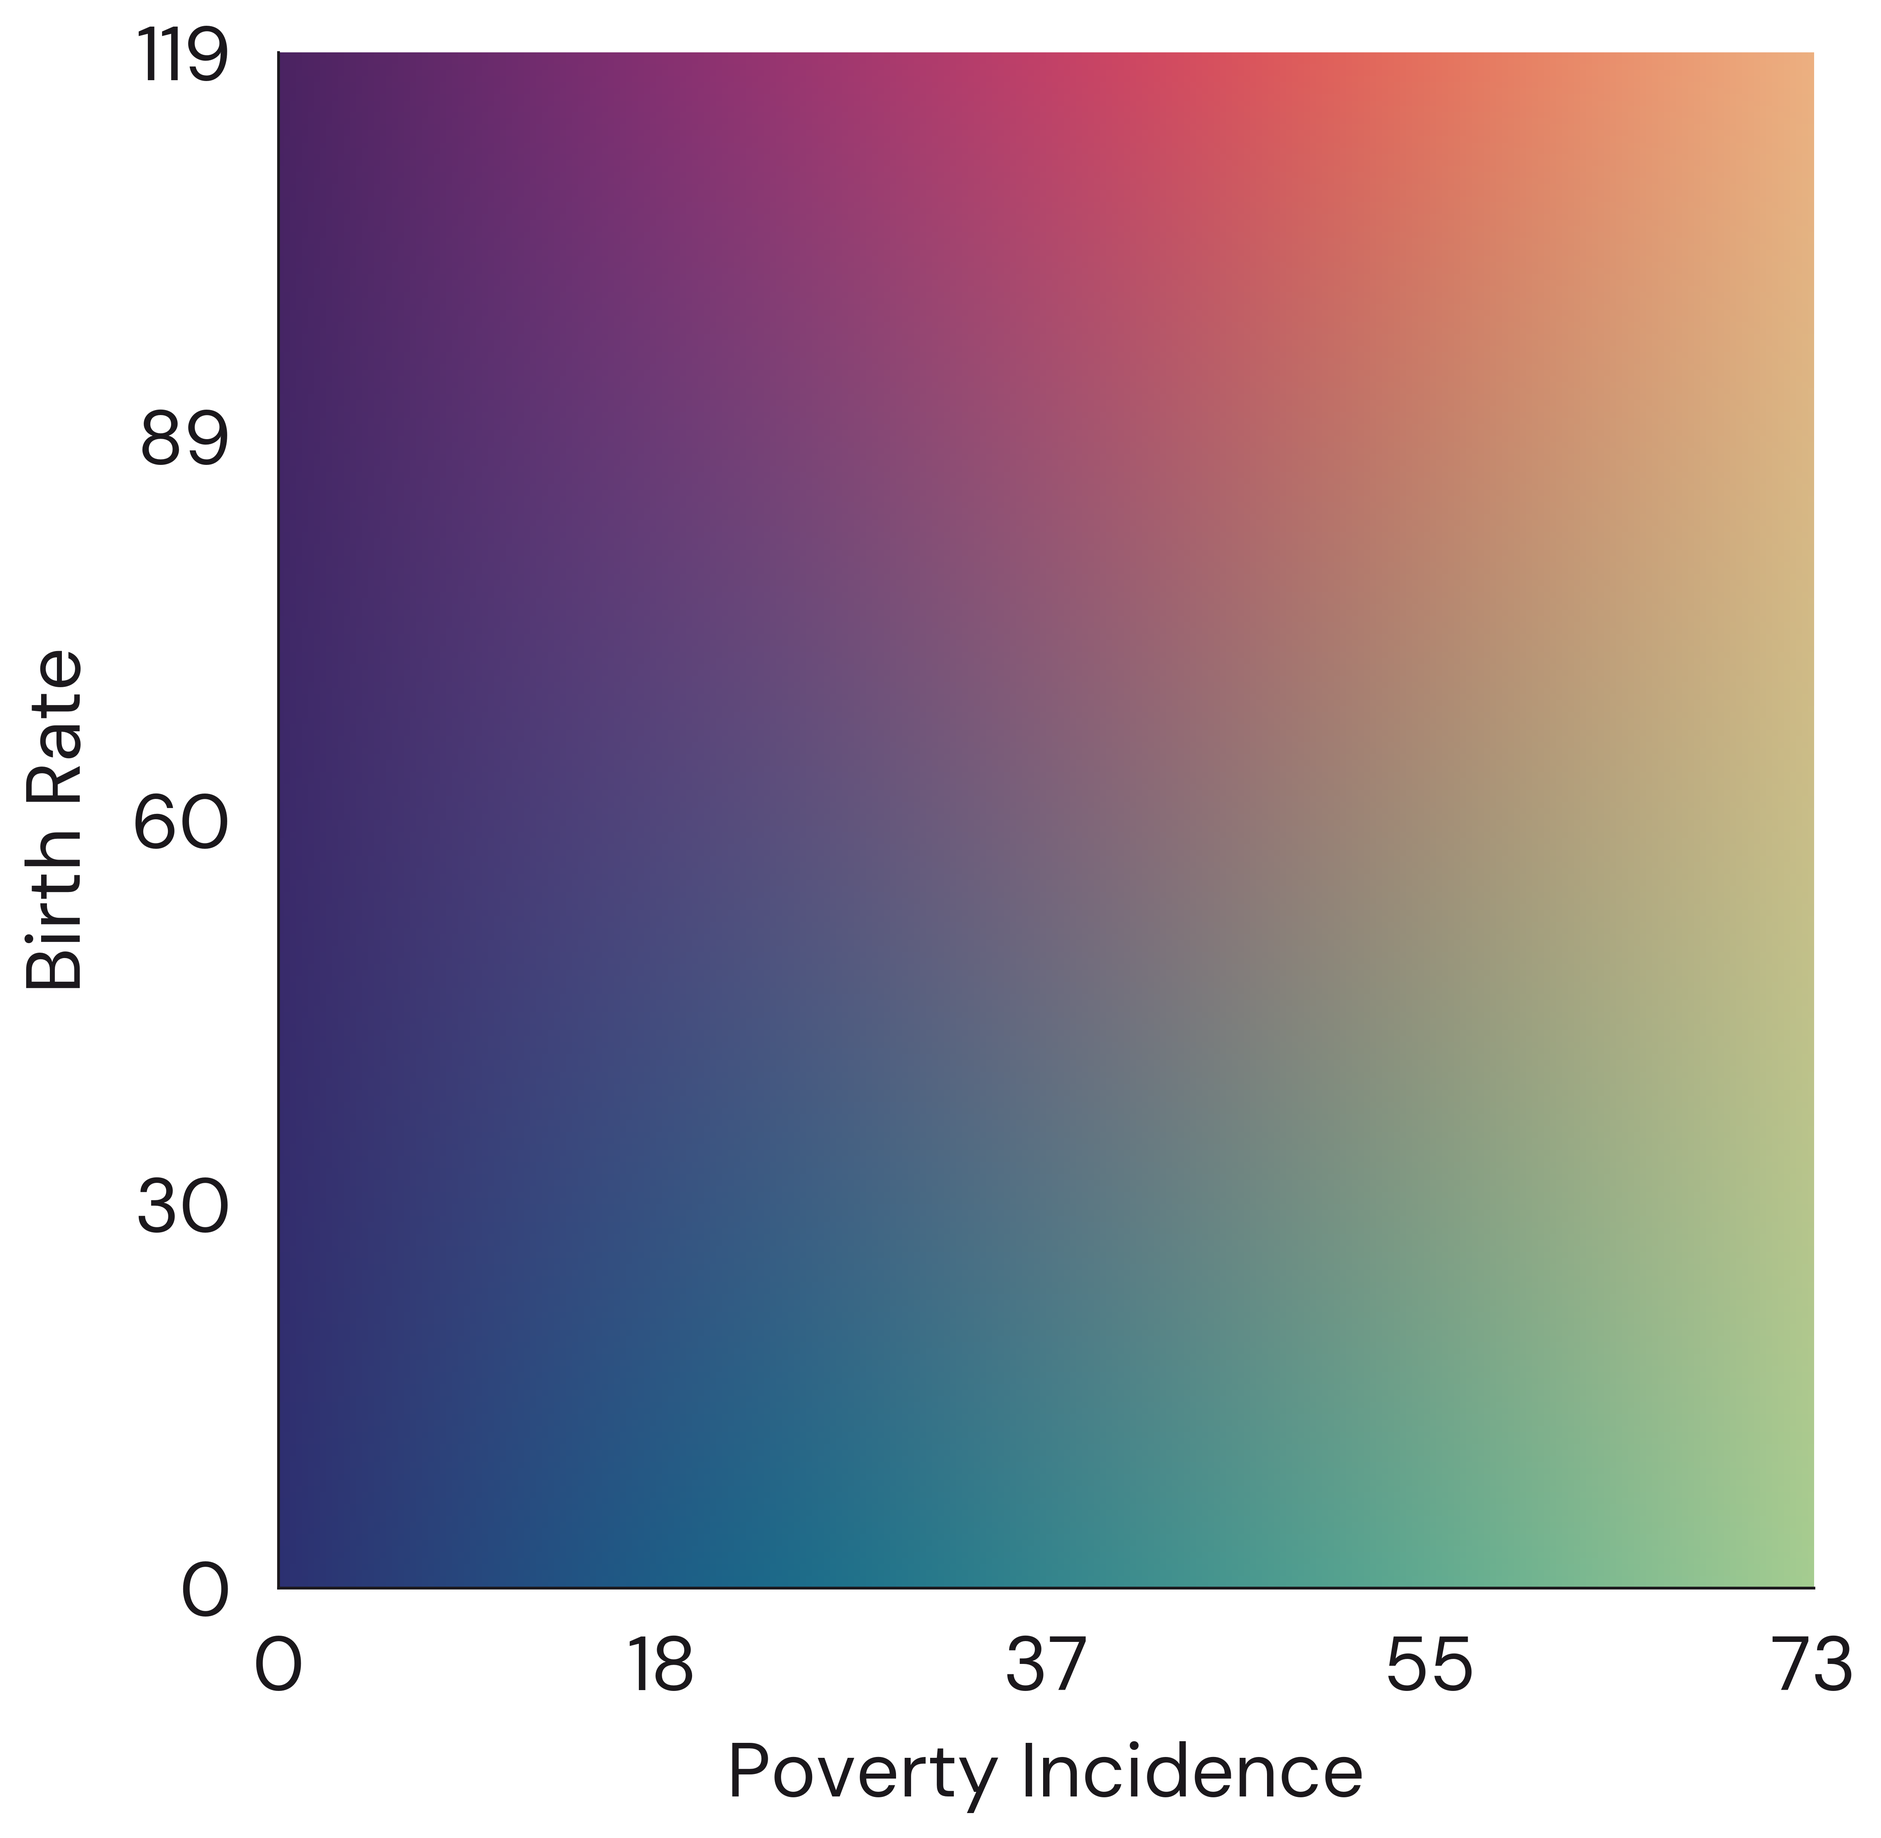
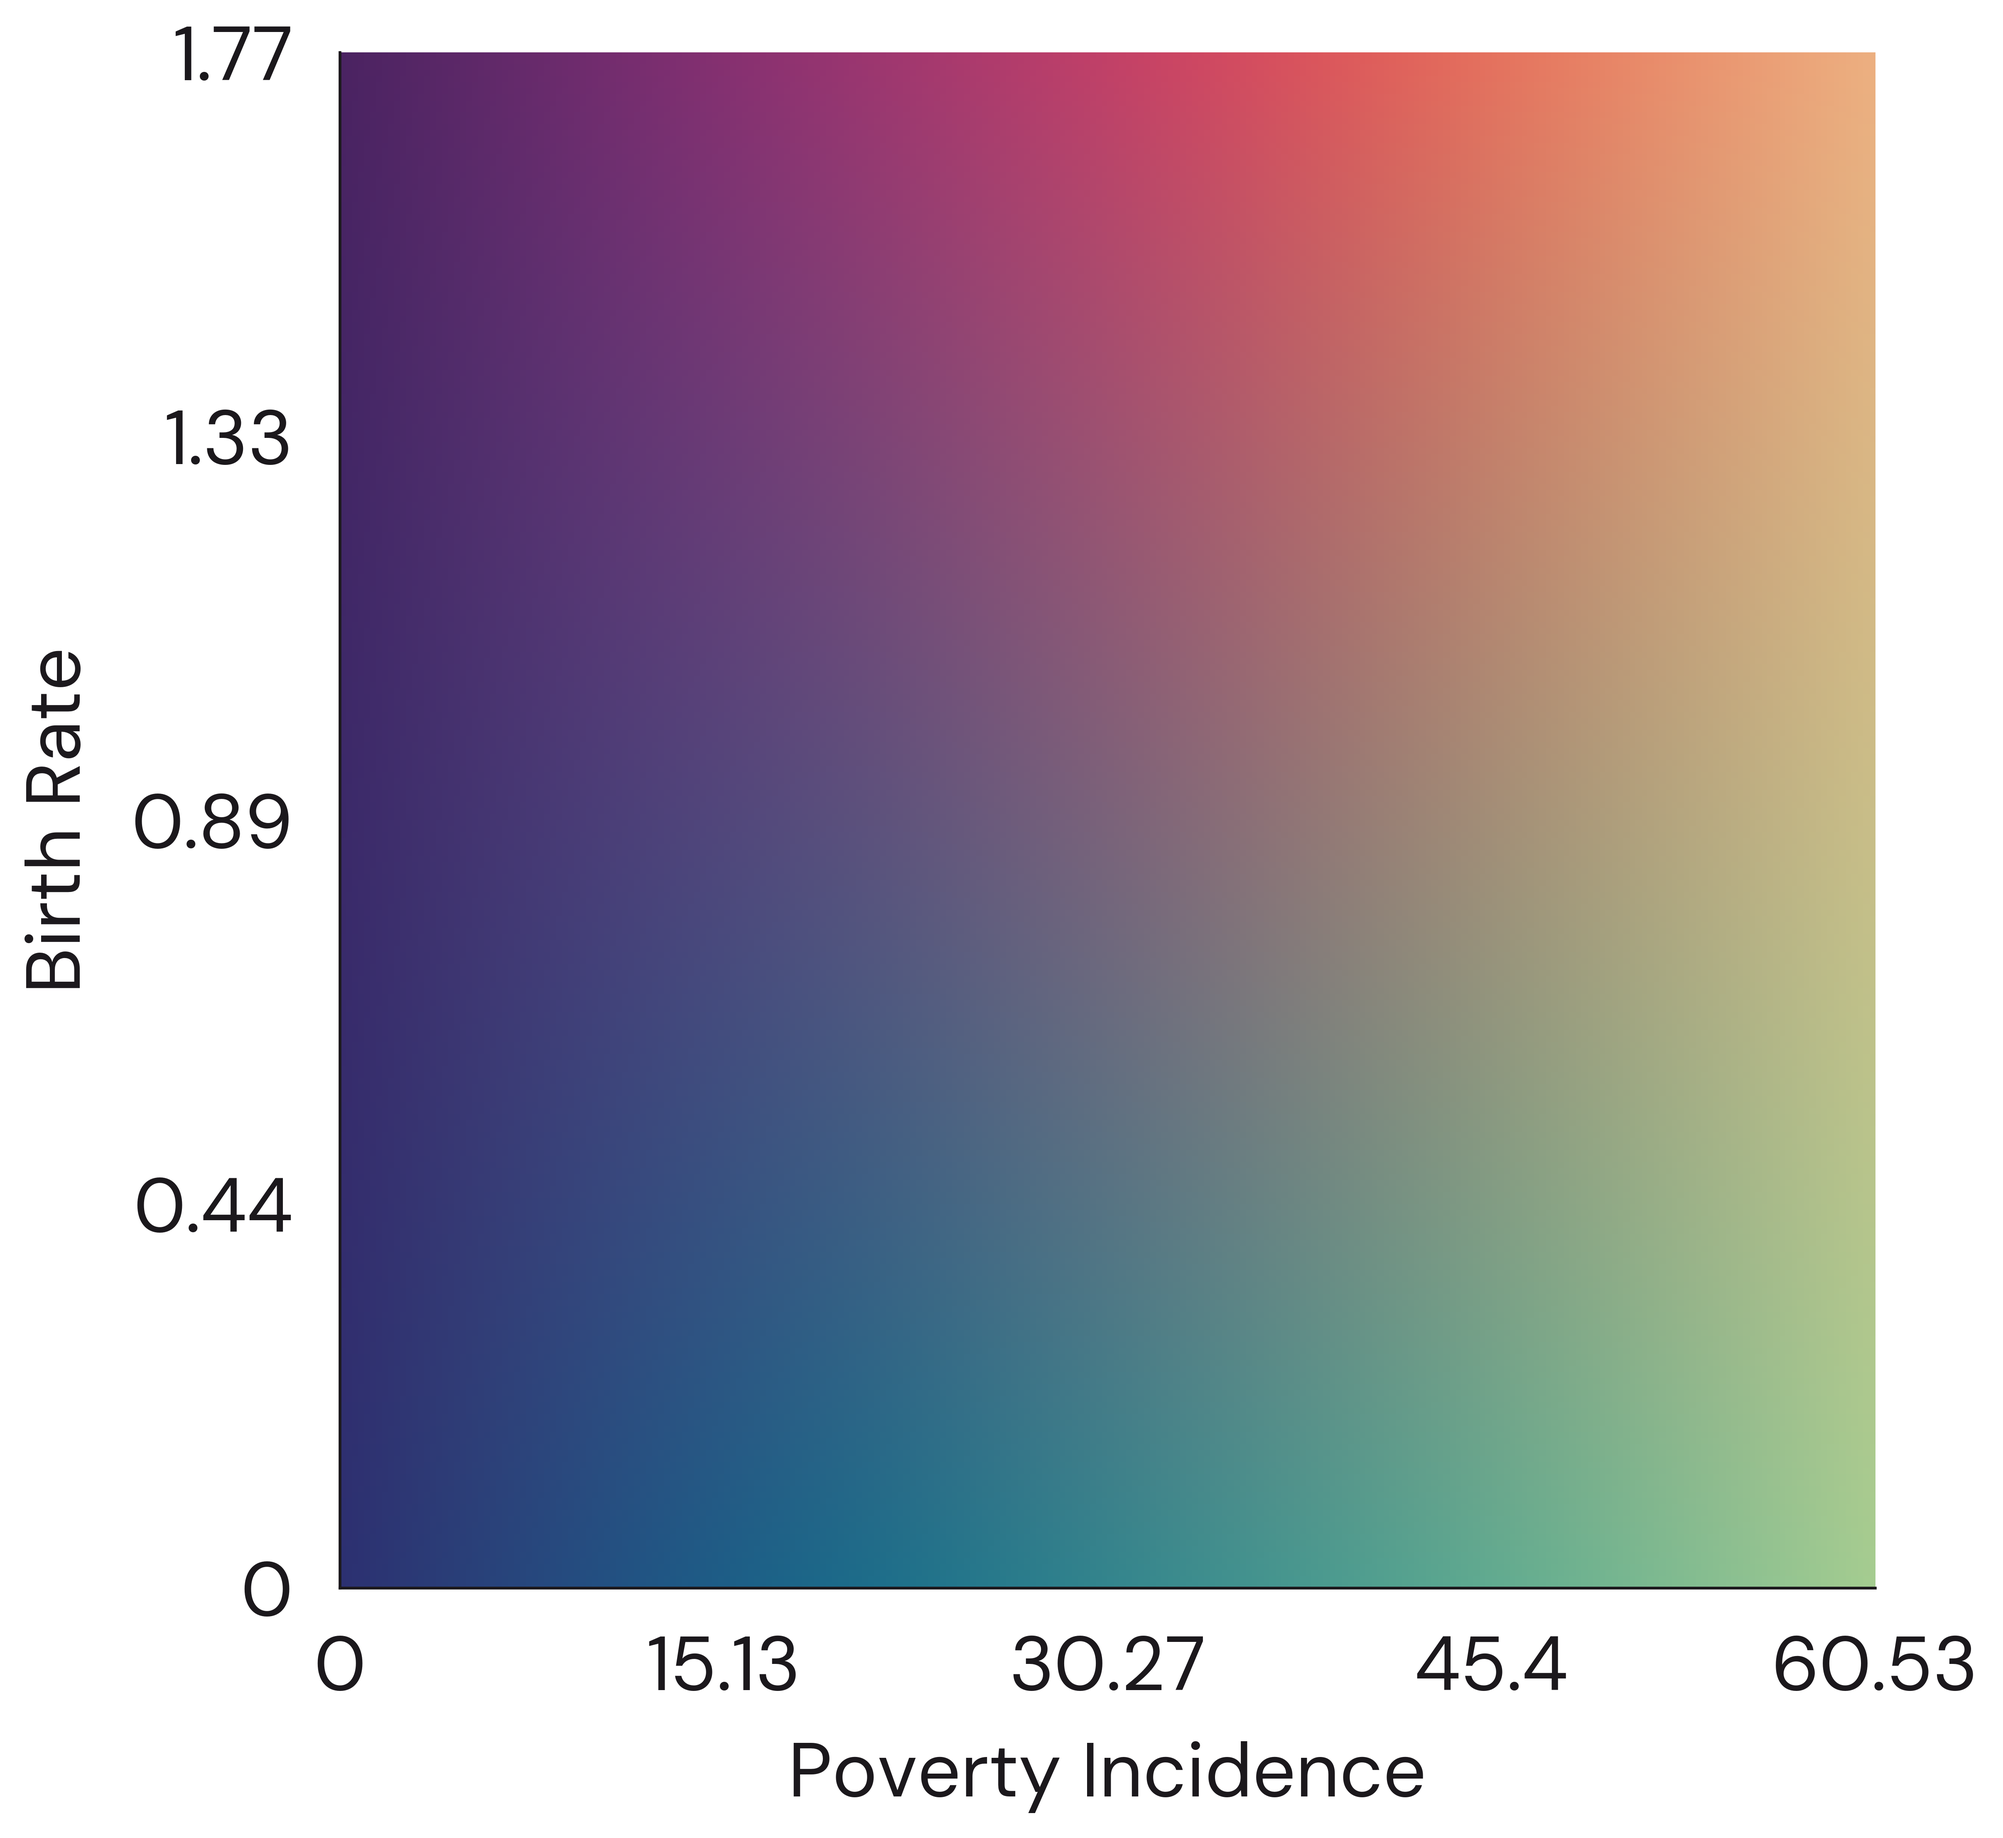
Add nutshell plot description

diff --git a/app/Exploration.tsx b/app/Exploration.tsx
@@ -3,6 +3,7 @@ import SectionTitle from "@/components/ui/SectionTitle";
 import Button from "@/components/ui/Button";
 import ExplorationHeader from "@/components/ui/ExplorationHeader";
 import ExplorationItem from "@/components/ui/ExplorationItem";
+import Image from "next/image";
 
 export default async function Exploration() {
   return (
@@ -37,7 +38,51 @@ export default async function Exploration() {
       <ExplorationItem
         title="Cleaning Population Dataset"
         description="Much like the live births dataset, string representations of number values (due to commas) were converted. With this, the dataset is now ready for merging."
+      /> 
+      <div className="flex flex-row justify-between gap-10 items-between flex-wrap">
+      <p className="text-2xl font-urbanist leading-tight">
+          And there we go, our data has been cleaned!
+      </p>
+      <Button
+          className="whitespace-nowrap"
+          name="Take a look at our dataset! [WIP]"
+          link="https://colab.research.google.com/drive/1yBrVKPBKlfGQR4bbGP-N8Q9ZNd9hW0yD?usp=sharing"
       />
+      <ExplorationHeader
+        title="Nutshell Plot" 
+        description="From here, we try to extrapolate patterns within our data; we then visualize our results to try and see if they correspond with any of our hypotheses."
+      />
+      <ExplorationItem 
+        title="Geospatial Mapping"
+        description="Since we want to gain an understanding of how poverty incidence and birth rate affect 
+                    different areas of the Philippines, then one option would be to plot our data geospatially  
+                    using colors, across different provinces in the country. This would help us gain an intuitive understanding 
+                    of how these variables correlate and interact with one another "
+      /> 
+      <ExplorationItem 
+        title="2D colormap"
+        description="In order to represent both poverty incidence and birth rate in the Philippine map, we need a way to represent two variables using color. Our solution: we created this 2D colormap by linear interpolating two 1-dimensional colormaps! Isn’t that neat? "
+      /> 
+
+      <div className="w-full flex items-center justify-center">
+        <Image
+          src={"/plots/nutshell-legend.png"}
+          width={700}
+          height={700}
+        />
+          
+      </div>
+
+      
+      <ExplorationItem 
+        title=""
+        description=""
+      /> 
+      <ExplorationItem 
+        title=""
+        description=""
+      /> 
+      </div>  
     </div>
   );
 }
